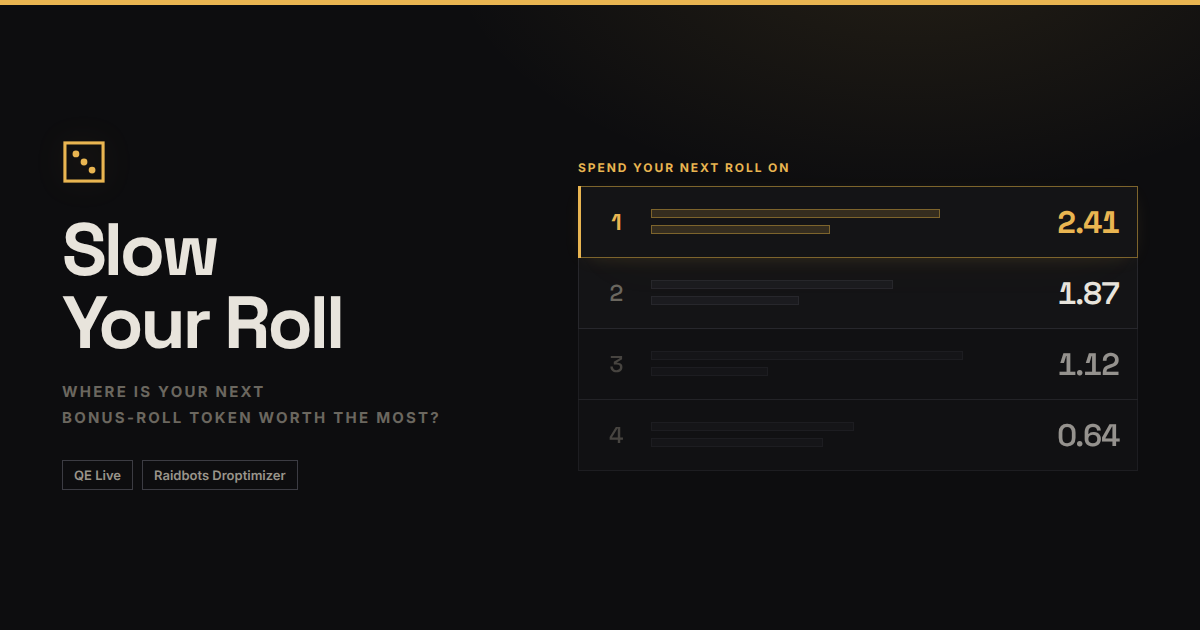
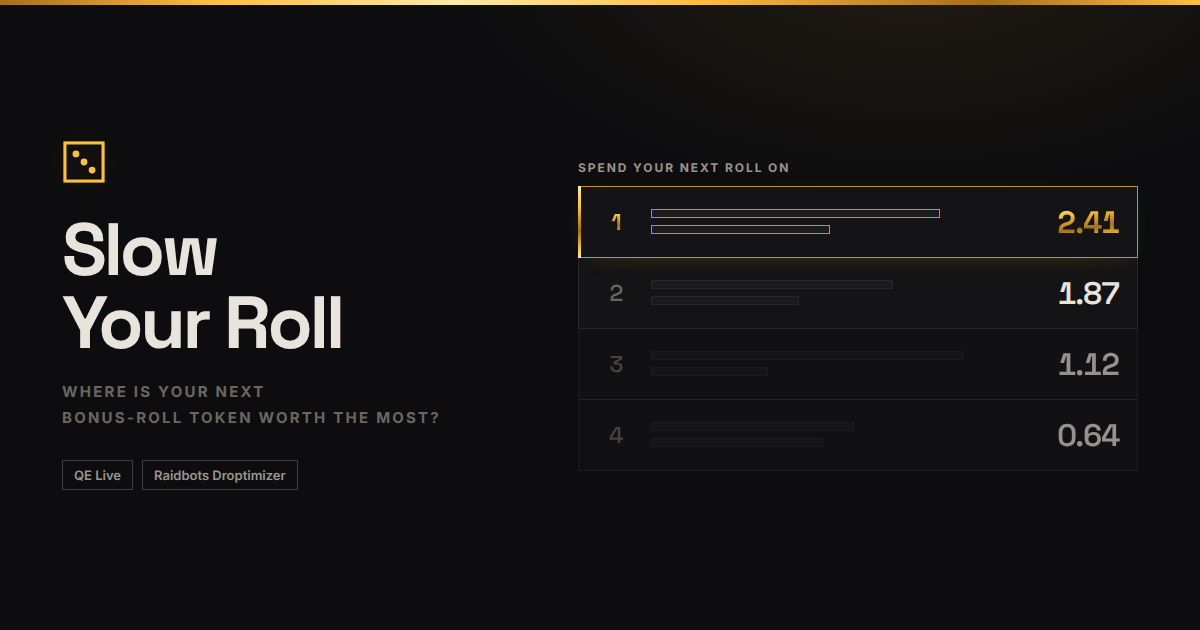
Shine

diff --git a/src/styles.css b/src/styles.css
@@ -33,6 +33,12 @@
    One accent, a gold at roughly 39° — not the orange this started as. Orange that far around the
    wheel reads as a warning light against near-black, and it's the wrong association for a page whose
    accent means "this is where your token pays". Both themes hold that hue; only lightness moves.
+
+   Gold is treated as the material rather than as a swatch: a thin line or a big struck statement,
+   never the medium weight in between, which is where it stops looking like metal and starts looking
+   like paint. See "struck, not painted" further down for the two lists that follow from that, and
+   check any new gold against it — most things that want to be gold should get a gold rule instead.
+
    Raid and dungeon are told apart by a cool ink instead of a second brand colour, and the WoW
    item-quality colours stay canon since they mean something outside this app — note that legendary
    orange is deliberately *not* the accent, so a legendary item never reads as a recommendation.
@@ -48,7 +54,12 @@
   --paper:#f2efe8; --paper-deep:#e8e4da; --panel:#fbf9f5; --panel-2:#f4f1e9; --panel-3:#ece8dd;
   --ink:#191713; --muted:#65615a; --faint:#948e82;
   --rule:#ded8cb; --rule-strong:#c2bbaa;
-  --accent:#956009; --accent-tint:#f6eddb; --accent-line:#cfa855;
+  --accent:#956009; --accent-tint:#f6eddb; --accent-line:#c19a45;
+  /* The two ends of the sheen. On paper both stay *darker* than the accent — a highlight lighter
+     than #a86f0c drops the hero numeral under 3:1 against the panel, and a 52px figure nobody can
+     read is not a stylish 52px figure. On ink the highlight goes properly bright, which is where
+     the metal actually comes from. */
+  --gold-hi:#a86f0c; --gold-lo:#5f3d02;
   --cool:#2b5f7e; --cool-tint:#e4edf3;
   --good:#2f6b3a; --danger:#a3271f;
   --q-rare:#1a5fb4; --q-epic:#7b2fb5; --q-legend:#b45309;
@@ -57,6 +68,12 @@
      of the page. Gold in both themes — the glow is the accent, not a neutral shadow. */
   --halo:rgba(200,155,50,.34); --halo-wide:rgba(200,155,50,.18); --wash:rgba(205,165,60,.11);
   --lift:0 14px 34px -16px rgba(30,24,12,.34),0 2px 6px -3px rgba(30,24,12,.18);
+
+  /* Shine. A flat fill can only ever be yellow; what makes a surface read as *gold* is luminance
+     moving across it, so the three elements that carry the accent as a surface get a rolled sheen
+     instead of a colour. Defined once — the var()s inside resolve per theme at the point of use. */
+  --sheen-y:linear-gradient(172deg, var(--gold-hi) 2%, var(--accent) 30%, var(--gold-lo) 62%, var(--accent) 86%, var(--gold-hi) 100%);
+  --sheen-x:linear-gradient(90deg, var(--gold-lo), var(--accent) 18%, var(--gold-hi) 38%, var(--accent) 58%, var(--gold-lo) 82%, var(--accent));
 
   /* Grain. Alpha-composited over paper it reads as fibre; multiply keeps it from hazing the whites. */
   --grain-blend:multiply; --grain-opacity:.05;
@@ -75,11 +92,12 @@
   --paper:#0d0d0f; --paper-deep:#08080a; --panel:#141416; --panel-2:#1b1b1f; --panel-3:#232328;
   --ink:#e8e4dc; --muted:#9a958b; --faint:#6b675f;
   --rule:#27272c; --rule-strong:#3c3c43;
-  --accent:#e9b551; --accent-tint:#282110; --accent-line:#7d642c;
+  --accent:#fbc140; --accent-tint:#2e2210; --accent-line:#c2932f;
+  --gold-hi:#ffe9a8; --gold-lo:#a3701a;
   --cool:#7db8dd; --cool-tint:#12222c;
   --good:#4fbb63; --danger:#ef6a5e;
   --q-rare:#4a9eff; --q-epic:#b57bff; --q-legend:#ff9d3c;
-  --halo:rgba(240,190,85,.24); --halo-wide:rgba(235,180,70,.13); --wash:rgba(240,190,80,.07);
+  --halo:rgba(251,193,64,.26); --halo-wide:rgba(251,180,64,.13); --wash:rgba(255,180,60,.055);
   --lift:0 18px 44px -18px rgba(0,0,0,.72),0 2px 8px -3px rgba(0,0,0,.6);
   /* Screen, not multiply: grain has to *lift* out of near-black to be seen at all. */
   --grain-blend:screen; --grain-opacity:.05;
@@ -88,11 +106,12 @@
   --paper:#0d0d0f; --paper-deep:#08080a; --panel:#141416; --panel-2:#1b1b1f; --panel-3:#232328;
   --ink:#e8e4dc; --muted:#9a958b; --faint:#6b675f;
   --rule:#27272c; --rule-strong:#3c3c43;
-  --accent:#e9b551; --accent-tint:#282110; --accent-line:#7d642c;
+  --accent:#fbc140; --accent-tint:#2e2210; --accent-line:#c2932f;
+  --gold-hi:#ffe9a8; --gold-lo:#a3701a;
   --cool:#7db8dd; --cool-tint:#12222c;
   --good:#4fbb63; --danger:#ef6a5e;
   --q-rare:#4a9eff; --q-epic:#b57bff; --q-legend:#ff9d3c;
-  --halo:rgba(240,190,85,.24); --halo-wide:rgba(235,180,70,.13); --wash:rgba(240,190,80,.07);
+  --halo:rgba(251,193,64,.26); --halo-wide:rgba(251,180,64,.13); --wash:rgba(255,180,60,.055);
   --lift:0 18px 44px -18px rgba(0,0,0,.72),0 2px 8px -3px rgba(0,0,0,.6);
   --grain-blend:screen; --grain-opacity:.05;
 }
@@ -128,7 +147,7 @@ body::after{
 h1,h2,h3{margin:0;text-wrap:balance;font-weight:600;letter-spacing:-.015em;}
 button{font-family:inherit;cursor:pointer;letter-spacing:inherit;}
 input,select,textarea{font-family:inherit;letter-spacing:inherit;}
-a{color:var(--accent);text-underline-offset:2px;}
+a{color:var(--ink);text-decoration-color:var(--accent);text-decoration-thickness:1px;text-underline-offset:2px;}
 .tnum{font-variant-numeric:tabular-nums;}
 /* Every figure that can change under the reader — scores, ilvls, EV — holds its column. */
 .rank,.iscore,.ilvl,.num-in,.item-group .n,.ev,.trade b,.vopt .couple b{font-variant-numeric:tabular-nums;}
@@ -148,12 +167,15 @@ a{color:var(--accent);text-underline-offset:2px;}
    or they read as a floating bar someone forgot to stretch. */
 .masthead{
   position:sticky;top:0;z-index:20;
-  margin:0 calc(50% - 50vw) 26px;padding:16px max(20px, calc(50vw - 510px)) 13px;
+  margin:0 calc(50% - 50vw) 26px;padding:19px max(20px, calc(50vw - 510px)) 13px;
   display:flex;align-items:flex-end;justify-content:space-between;gap:16px;flex-wrap:wrap;
-  border-top:3px solid var(--accent);border-bottom:1px solid var(--rule);
+  border-bottom:1px solid var(--rule);
   background:color-mix(in srgb, var(--paper) 78%, transparent);
   -webkit-backdrop-filter:blur(14px) saturate(1.4); backdrop-filter:blur(14px) saturate(1.4);
 }
+/* The gilt edge of the page. A border can't hold a gradient, so the top rule is its own bar — three
+   pixels pinned to the top of the viewport with the light rolling along them. */
+.masthead::before{content:"";position:absolute;left:0;right:0;top:0;height:3px;background:var(--sheen-x);}
 .brand{display:flex;align-items:center;gap:13px;}
 .brand .mark{width:26px;height:26px;flex:0 0 auto;color:var(--accent);
   filter:drop-shadow(0 0 10px var(--halo-wide));}
@@ -170,7 +192,7 @@ a{color:var(--accent);text-underline-offset:2px;}
 .btn:hover{background:var(--panel-3);border-color:var(--ink);}
 .btn:active{transform:translateY(.5px);}
 .btn.primary{background:var(--ink);border-color:var(--ink);color:var(--paper);}
-.btn.primary:hover{background:var(--accent);border-color:var(--accent);color:#fff;}
+.btn.primary:hover{background:var(--sheen-x);border-color:var(--accent);color:#1a1408;}
 .btn.icon{padding:7px 9px;}
 .btn.ghost{border-color:transparent;color:var(--muted);}
 .btn.ghost:hover{background:var(--panel-3);color:var(--ink);border-color:var(--rule);}
@@ -210,7 +232,7 @@ a{color:var(--accent);text-underline-offset:2px;}
 .simc summary{list-style:none;cursor:pointer;padding:11px 15px;font-size:13px;font-weight:600;color:var(--muted);display:flex;align-items:center;gap:9px;}
 .simc summary::-webkit-details-marker{display:none;}
 .simc summary:hover{color:var(--ink);}
-.simc summary .mk{color:var(--accent);transition:transform .18s;font-size:10px;} .simc[open] summary .mk{transform:rotate(90deg);}
+.simc summary .mk{color:var(--muted);transition:transform .18s;font-size:10px;} .simc[open] summary .mk{transform:rotate(90deg);}
 .simc summary code,.simc-actions code{font-family:var(--font-mono);font-size:12px;background:var(--panel-3);
   padding:1px 5px;color:var(--ink);}
 .simc[open] summary{border-bottom:1px solid var(--rule);}
@@ -228,7 +250,7 @@ a{color:var(--accent);text-underline-offset:2px;}
   border-left:2px solid var(--rule-strong);}
 .simc-note b{color:var(--ink);font-weight:650;}
 .simc-note.alert{border-left-color:var(--accent);background:linear-gradient(90deg,var(--accent-tint),transparent 70%),var(--panel);}
-.simc-note.alert b{color:var(--accent);}
+.simc-note.alert b{color:var(--ink);}
 .simc-note.alert code{font-family:var(--font-mono);font-size:11.5px;background:var(--panel-3);padding:1px 5px;}
 
 /* ── vault ── */
@@ -240,7 +262,7 @@ a{color:var(--accent);text-underline-offset:2px;}
 .trade.roll{border-left-color:var(--accent);}
 .trade.keep{border-left-color:var(--cool);}
 .trade .tlead{font-size:13.5px;font-weight:700;letter-spacing:-.01em;margin-bottom:3px;}
-.trade.roll .tlead{color:var(--accent);} .trade.keep .tlead{color:var(--cool);}
+.trade.roll .tlead{color:var(--ink);} .trade.keep .tlead{color:var(--cool);}
 .trade .tbody{font-size:12.5px;color:var(--muted);line-height:1.6;max-width:78ch;}
 .trade .tbody b{color:var(--ink);font-weight:650;}
 /* The cost of taking the item that outlives the week you take it in.
@@ -254,7 +276,7 @@ a{color:var(--accent);text-underline-offset:2px;}
   border-top:1px solid var(--rule);padding:10px 2px;}
 .vopt.taken{box-shadow:inset 2px 0 0 var(--accent);padding-left:11px;}
 .vopt .vname{font-weight:600;font-size:14px;}
-.vopt.taken .vname{color:var(--accent);}
+.vopt.taken .vname{color:var(--ink);}
 .vopt .vmeta{font-size:11.5px;color:var(--faint);margin-top:2px;display:flex;gap:6px;align-items:center;flex-wrap:wrap;}
 .vopt .vmeta .warn{color:var(--danger);}
 .vopt .couple{font-size:12px;color:var(--muted);margin-top:5px;} .vopt .couple b{color:var(--ink);font-weight:650;}
@@ -311,7 +333,7 @@ select.board.slim{min-width:0;padding:6px 8px;font-size:13px;}
 .popt .pl{display:block;font-size:13.5px;font-weight:600;overflow:hidden;text-overflow:ellipsis;white-space:nowrap;}
 .popt .pm{display:block;font-size:11.5px;color:var(--faint);margin-top:1px;
   overflow:hidden;text-overflow:ellipsis;white-space:nowrap;}
-.popt .pcheck{color:var(--accent);font-size:12px;opacity:0;}
+.popt .pcheck{color:var(--muted);font-size:12px;opacity:0;}
 .popt.on .pcheck{opacity:1;}
 .spacer{flex:1 1 auto;}
 .seg{display:inline-flex;border:1px solid var(--rule-strong);overflow:hidden;}
@@ -321,7 +343,7 @@ select.board.slim{min-width:0;padding:6px 8px;font-size:13px;}
 .seg button.on{background:var(--ink);color:var(--paper);}
 .seg-label{color:var(--faint);margin-right:1px;}
 .toggle{display:inline-flex;align-items:center;gap:7px;font-size:12.5px;color:var(--muted);cursor:pointer;user-select:none;}
-.toggle input{accent-color:var(--accent);width:15px;height:15px;}
+.toggle input{accent-color:var(--ink);width:15px;height:15px;}
 
 /* ── verdict ─────────────────────────────────────────────────────────────────────────────────────
    The answer. Everything else on the page is a way of checking it, so it gets the one thing nothing
@@ -331,11 +353,30 @@ select.board.slim{min-width:0;padding:6px 8px;font-size:13px;}
   background:linear-gradient(168deg,var(--accent-tint),transparent 58%),var(--panel);
   padding:20px 22px;margin-bottom:22px;display:flex;align-items:center;gap:22px;flex-wrap:wrap;
   box-shadow:0 6px 26px -10px var(--halo),0 26px 70px -34px var(--halo-wide);}
-.verdict .label{color:var(--accent);}
+.verdict .label{color:var(--muted);}
 .verdict .target{font-family:var(--font-display);font-size:27px;font-weight:600;letter-spacing:-.03em;line-height:1.12;margin-top:6px;}
 .verdict .why{color:var(--muted);font-size:13px;margin-top:6px;}
 .verdict .big{margin-left:auto;text-align:right;}
-.verdict .big .ev{font-family:var(--font-display);font-size:52px;font-weight:700;line-height:.9;color:var(--accent);letter-spacing:-.045em;}
+.verdict .big .ev{font-family:var(--font-display);font-size:52px;font-weight:700;line-height:.9;letter-spacing:-.045em;}
+
+/* ── struck, not painted ─────────────────────────────────────────────────────────────────────────
+   Gold behaves like the metal: it works as a thin line or as a big statement piece, and it is at
+   its worst in between, where a flat mid-size fill reads as yellow paint. So every gold surface on
+   this page is one or the other. The hairlines — the page's top rule, the verdict and rank-1
+   borders, the 2px bars marking an owned item or the selected report, focus rings — are flat gold,
+   because a 1px line has no room for a highlight anyway. Everything from 22px up is *struck*: the
+   sheen runs across it, which is the luminance variation that makes a surface read as metal at all.
+
+   Nothing between those two lives in gold. Small caps labels, 9.5px badges, "Own" buttons and
+   13px links are ink or muted, and where one of them needs marking it gets a gold rule beside it
+   rather than gold lettering. That is also why this list is short — three figures, all of them the
+   answer or the row carrying it. `color` is set first and stays the fallback: without
+   background-clip the figure is flat gold rather than invisible. */
+.verdict .big .ev,.card.rank-1 .rank,.card.rank-1 .ev-cell .ev{color:var(--accent);}
+@supports ((-webkit-background-clip:text) or (background-clip:text)){
+  .verdict .big .ev,.card.rank-1 .rank,.card.rank-1 .ev-cell .ev{
+    background:var(--sheen-y);-webkit-background-clip:text;background-clip:text;color:transparent;}
+}
 .verdict .big .ev-unit{font-size:10px;font-weight:700;text-transform:uppercase;letter-spacing:.15em;color:var(--faint);margin-top:9px;}
 /* Nothing to recommend: the halo goes out, because there is no answer to point at. */
 .verdict.empty{background:var(--panel);border-color:var(--rule);box-shadow:none;}
@@ -357,12 +398,12 @@ select.board.slim{min-width:0;padding:6px 8px;font-size:13px;}
 .card:hover{border-color:var(--rule-strong);}
 /* The row the verdict named, lit from the same lamp — the only other glow on the page. */
 .card.rank-1{border-color:var(--accent-line);box-shadow:0 4px 20px -10px var(--halo),0 18px 50px -30px var(--halo-wide);}
-.card.rank-1::before{content:"";position:absolute;left:-1px;top:-1px;bottom:-1px;width:2px;background:var(--accent);}
+.card.rank-1::before{content:"";position:absolute;left:-1px;top:-1px;bottom:-1px;width:2px;background:var(--sheen-y);}
 .card.depleted{opacity:.55;}
 .card-head{display:grid;grid-template-columns:46px 1fr auto 22px;align-items:center;gap:14px;padding:13px 16px;cursor:pointer;}
 /* Editorial numbering: big, quiet, in the gutter — a position, not a badge. */
 .rank{font-family:var(--font-display);font-weight:500;font-size:22px;color:var(--faint);text-align:center;letter-spacing:-.03em;}
-.card.rank-1 .rank{color:var(--accent);font-weight:700;}
+.card.rank-1 .rank{font-weight:700;}
 .name-cell{min-width:0;}
 .name-cell .name{font-family:var(--font-display);font-size:19px;font-weight:600;letter-spacing:-.025em;display:flex;align-items:center;gap:9px;}
 .name-cell .name .txt{white-space:nowrap;overflow:hidden;text-overflow:ellipsis;}
@@ -372,17 +413,17 @@ select.board.slim{min-width:0;padding:6px 8px;font-size:13px;}
 .type-tag,.pays,.special{font-family:var(--font-ui);}
 .type-tag{font-size:9.5px;font-weight:700;letter-spacing:.12em;text-transform:uppercase;padding:2px 6px;
   border:1px solid;white-space:nowrap;}
-.type-tag.raid{color:var(--accent);border-color:var(--accent-line);}
+.type-tag.raid{color:var(--muted);border-color:var(--rule-strong);}
 .type-tag.dungeon{color:var(--cool);border-color:color-mix(in srgb, var(--cool) 45%, transparent);}
 /* Upgrade track a roll on this encounter pays out at, when that isn't simply the drop. */
 .pays{font-size:10px;font-weight:650;letter-spacing:.04em;color:var(--cool);white-space:nowrap;}
 /* End-of-raid encounter whose rewards are a tier apart — the one people bank a token for. */
-.special{font-size:9.5px;font-weight:700;letter-spacing:.1em;text-transform:uppercase;color:var(--accent);
-  background:var(--accent-tint);padding:2px 6px;white-space:nowrap;}
-.swap-note.special-note b{color:var(--accent);}
+.special{font-size:9.5px;font-weight:700;letter-spacing:.1em;text-transform:uppercase;color:var(--ink);
+  border:1px solid var(--accent-line);padding:1px 5px;white-space:nowrap;}
+.swap-note.special-note b{color:var(--ink);}
 .ev-cell{text-align:right;}
 .ev-cell .ev{font-family:var(--font-display);font-size:25px;font-weight:600;line-height:1;letter-spacing:-.04em;}
-.card.rank-1 .ev-cell .ev{color:var(--accent);font-weight:700;}
+.card.rank-1 .ev-cell .ev{font-weight:700;}
 .ev-cell .math{font-size:11px;font-variant-numeric:tabular-nums;color:var(--faint);margin-top:5px;white-space:nowrap;}
 .chev{color:var(--faint);transition:transform .18s;font-size:11px;text-align:center;}
 .card.open .chev{transform:rotate(90deg);}
@@ -425,8 +466,8 @@ img.icon,.icon.blank{width:21px;height:21px;flex:0 0 auto;border:1px solid var(-
 .vr,.have,.only,.item .why{font-size:9px;font-weight:700;letter-spacing:.09em;text-transform:uppercase;
   border:1px solid var(--rule-strong);padding:1px 4px;color:var(--faint);
   white-space:nowrap;flex:0 0 auto;}
-.vr{color:var(--accent);border-color:var(--accent-line);}
-.have.dupe{color:var(--accent);border-color:var(--accent-line);}
+.vr{color:var(--muted);border-color:var(--accent-line);}
+.have.dupe{color:var(--muted);border-color:var(--accent-line);}
 .only{color:var(--cool);border-color:color-mix(in srgb, var(--cool) 40%, transparent);text-transform:none;letter-spacing:.03em;}
 .iscore{font-weight:650;font-size:13.5px;letter-spacing:-.01em;text-align:right;}
 .item.zero .iscore{color:var(--faint);font-weight:500;}
@@ -441,7 +482,7 @@ img.icon,.icon.blank{width:21px;height:21px;flex:0 0 auto;border:1px solid var(-
   font-size:9.5px;font-weight:700;letter-spacing:.11em;text-transform:uppercase;width:100%;color:var(--muted);
   transition:color .12s,border-color .12s,background .12s;}
 .state-btn.want{color:var(--muted);}
-.state-btn.own{color:var(--accent);border-color:var(--accent-line);background:var(--accent-tint);}
+.state-btn.own{color:var(--muted);background:var(--panel-3);}
 .state-btn.rolled{color:var(--good);border-color:color-mix(in srgb, var(--good) 40%, transparent);}
 .state-btn:hover{color:var(--ink);border-color:var(--ink);}
 /* Divider between the tiers of a pool: upgrades, then filler, then what can't be awarded. */
@@ -465,7 +506,7 @@ img.icon,.icon.blank{width:21px;height:21px;flex:0 0 auto;border:1px solid var(-
 .legend{margin-top:28px;overflow:hidden;}
 .legend summary{list-style:none;cursor:pointer;padding:13px 17px;font-weight:650;font-size:14.5px;letter-spacing:-.01em;display:flex;align-items:center;gap:10px;}
 .legend summary::-webkit-details-marker{display:none;}
-.legend summary .mk{color:var(--accent);transition:transform .18s;font-size:10px;}
+.legend summary .mk{color:var(--muted);transition:transform .18s;font-size:10px;}
 .legend[open] summary{border-bottom:1px solid var(--rule);}
 .legend[open] summary .mk{transform:rotate(90deg);}
 .legend .body{padding:16px 17px 18px;color:var(--muted);font-size:13.5px;line-height:1.65;}
@@ -477,7 +518,7 @@ img.icon,.icon.blank{width:21px;height:21px;flex:0 0 auto;border:1px solid var(-
 .legend .pill{flex:0 0 auto;width:56px;text-align:center;font-size:9.5px;font-weight:700;letter-spacing:.11em;
   text-transform:uppercase;padding:2px 0;border:1px solid var(--rule-strong);}
 .legend .pill.w{color:var(--muted);}
-.legend .pill.o{color:var(--accent);border-color:var(--accent-line);background:var(--accent-tint);}
+.legend .pill.o{color:var(--muted);background:var(--panel-3);}
 .legend .pill.r{color:var(--good);border-color:color-mix(in srgb, var(--good) 40%, transparent);}
 
 .empty-state{text-align:center;padding:64px 20px;color:var(--muted);border:1px dashed var(--rule-strong);}
